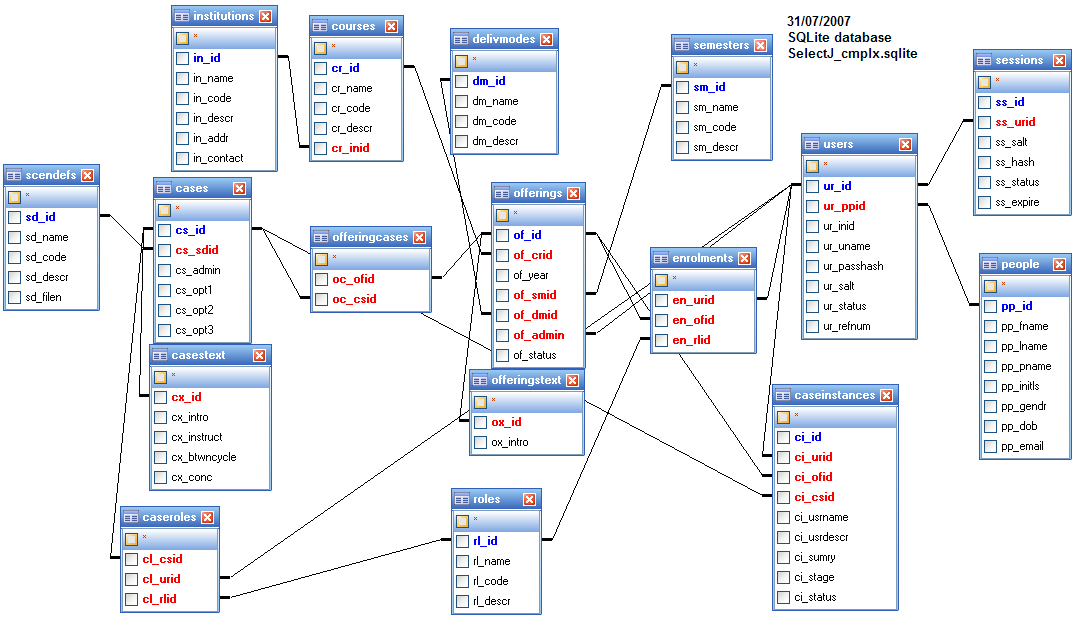
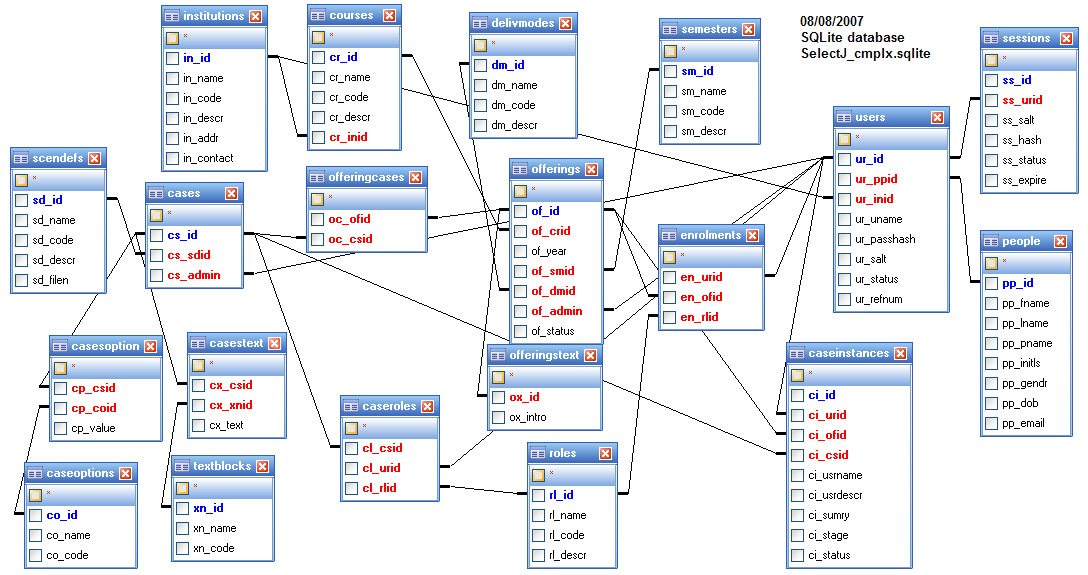
Update database structure to normalise setting case options. Added tables caseoptions and casesoption. Added HTML & CSS example for formating forms with CSS (EG_form.html,forms.css)
git-svn-id: https://free2.projectlocker.com/RikkiTikkiTavi/selectj/svn/trunk@41 9a28d70f-7318-3d49-a9e1-554383617220

diff --git a/Website/public/EG_form.html b/Website/public/EG_form.html
@@ -1,0 +1,138 @@
+<!DOCTYPE html PUBLIC "-//W3C//DTD XHTML 1.0 Transitional//EN" "http://www.w3.org/TR/xhtml1/DTD/xhtml1-transitional.dtd">
+<html lang="en" xml:lang="en" xmlns="http://www.w3.org/1999/xhtml">
+<head>
+<title>A CSS-based Form Template</title>
+<meta http-equiv="Content-Type" content="text/html; charset=iso-8859-1"/>
+<link rel="stylesheet" type="text/css" href="forms.css"/></head><body>
+
+<div id="wrapper">
+
+	<h2>A CSS-based Form Template</h2>
+
+	<div class="form-container">
+	
+	<p>More information about this template could be found in <a title="Nidahas: Forms markup and CSS - Revisited" href="http://nidahas.com/2006/12/06/forms-markup-and-css-revisited/">this blog article</a>.</p>
+
+	<div class="errors">
+		<p><em>Oops... the following errors were encountered:</em></p>
+		<ul>
+			<li>Username cannot be empty</li>
+			<li>Country cannot be empty</li>
+		</ul>
+		<p>Data has <strong>not</strong> been saved.</p>
+	</div>
+
+	<form method="post" action="#">
+	
+	<p class="legend"><strong>Note:</strong> Required fields are marked with an asterisk (<em>*</em>)</p>
+	
+	<fieldset>
+		<legend>User Details</legend>
+			<div><label class="error" for="uname">Username <em>*</em></label> <input type="text" class="error" value="" name="uname" id="uname"/></div>
+			<div><label for="email">Email Address </label> <input type="text" value="" name="email" id="email"/>
+				<p class="note">We will never sell or disclose your email address to anyone. <strong>This is an example of a note for an input field.</strong></p>
+			</div>
+	
+			<div><label for="fname">First Name <em>*</em></label> <input type="text" size="30" value="" name="fname" id="fname"/>
+			</div>
+			<div><label for="lname">Last Name </label> <input type="text" size="30" value="" name="lname" id="lname"/>
+			</div>
+	</fieldset>
+	
+	<fieldset>
+		<legend>Contact Information</legend>
+			<div><label for="address1">Address 1 <em>*</em></label> <input type="text" size="32" id="address1"/>
+			</div>
+			<div><label for="address2">Address 2</label> <input type="text" size="32" id="address2"/>
+			</div>
+			<div><label class="error" for="country">Country <em>*</em></label> <input type="text" size="12" class="error" value="" name="country" id="country"/>
+				<p class="note">Errors could be highlighted by giving an <code>error</code> class to the input field, as seen here.</p>
+			</div>
+			<div><label for="telephone">Telephone</label> <input type="text" size="3" id="telephone"/> - <input type="text" size="3"/> - <input type="text" size="4"/>
+				<p class="note">(###) - ### - ####</p>
+			</div>
+	</fieldset>
+	
+	<fieldset>
+		<legend>Submission</legend>
+			<div><label for="year">Year (YYYY) <em>*</em></label> <input type="text" maxlength="4" size="4" value="" name="year" id="year"/></div>
+	  <div><label for="date">Month (MM)</label> <input type="text" maxlength="2" size="4" value="" name="date" id="date"/></div>
+            <div><label for="Trts2Select">Traits to Select on</label>
+              <select name="Trts2Select" size="7" multiple="multiple" id="Trts2Select">
+                <option value="NLB">(NLB) Number of Lambs Born</option>
+                <!--<option value="WWT">(WWT) Weaning weight</option> -->
+                <option value="LW8">(LW8) Live weight at 8-mon</option>
+                <option value="FW12">(FW12) Fleece weight at 12-mon</option>
+                <option value="FD">(FD) Ultrasound back fat depth</option>
+                <option value="FAT">(FAT) Carcass Fat content</option>
+                <option value="LEAN">(LEAN) Carcass Lean content</option>
+              </select>
+              <p class="note">(these traits will be available in your selection lists)</p>
+            </div>
+	</fieldset>
+	
+	<fieldset>
+		<legend>Preferences</legend>
+			<div>
+				<label for="type">Type <em>*</em></label>
+				<select id="type" name="type">
+					<optgroup label="Type of Whatever">
+						<option>Corporate</option>
+						<option>Individual</option>
+					</optgroup>
+				</select>
+			</div>
+			<div class="controlset">
+				<label class="controlset">User Status <em>*</em></label>
+				<div><input type="checkbox" name="approved" id="approved" value="1"/> <label for="approved">Approved</label><br/>
+				<input type="checkbox" name="pending" id="pending" value="1"/> <label for="pending">Pending Applications</label><br/>
+				<input type="checkbox" name="actives" id="actives" value="1"/> <label for="actives">Active Service</label></div>
+			</div>			
+
+			<div class="controlset">
+				<label class="controlset">Preferred Location</label>
+				<div><input type="radio" value="1" id="radio1" name="radio1"/> <label for="radio1">Option 1</label><br/>
+				<input type="radio" value="1" id="radio2" name="radio1"/> <label for="radio2">Option 2</label><br/>
+				<input type="radio" value="1" id="radio3" name="radio1"/> <label for="radio3">Option 3</label><br/></div>
+			</div>			
+
+			<div class="controlset">
+				<label class="controlset">Something Else <em>*</em></label>
+				<div>
+					<input type="checkbox" value="1" id="check1" name="approved"/> <label for="check1">Some Option 1</label> <br/>
+					<input type="checkbox" value="1" id="check2" name="pending"/> <label for="check2">Some Option 2</label> <br/>
+					<input type="checkbox" value="1" id="check3" name="actives"/> <label for="check3">Some Option 3</label> <br/>
+				</div>
+			</div>			
+	</fieldset>
+	
+	<fieldset>
+		<legend>Profile</legend>
+			<div>
+				<label for="desc">Description <em>*</em></label>
+				<textarea id="desc" name="desc" cols="30" rows="4"></textarea>
+
+			</div>
+			<div>
+				<label for="info">Additional Info </label>
+				<textarea id="info" name="info" cols="35" rows="5"></textarea>
+			</div>
+	</fieldset>
+	
+	<div class="buttonrow">
+		<input type="submit" value="Save" class="button" />
+
+		<input type="button" value="Discard" class="button" />
+	</div>
+
+	</form>
+	
+	</div><!-- /form-container -->
+	
+	<p id="copyright">Created by <a href="http://nidahas.com/">Prabhath Sirisena</a>. This stuff is in public domain.</p>
+	
+</div><!-- /wrapper -->
+
+</body>
+</html>
+

diff --git a/Website/public/forms.css b/Website/public/forms.css
@@ -1,0 +1,121 @@
+@charset "utf-8";
+/* CSS Document */
+
+body {
+background-color:#FFFFFF;
+color:#111111;
+font-family:Arial,Helvetica,sans-serif;
+font-size:80%;
+font-style:normal;
+font-variant:normal;
+font-weight:normal;
+line-height:1.5;
+margin:0pt;
+padding:0pt;
+}
+h2 {
+background-color:#CCCCCC;
+border-bottom:2px solid #BBBBBB;
+color:#FFFFFF;
+font-family:Georgia,"Times New Roman",Times,serif;
+font-size:200%;
+font-weight:normal;
+margin:0px;
+padding:10px;
+}
+p#copyright {
+color:#999999;
+font-size:90%;
+margin:20px 10px;
+}
+div.form-container {
+background-color:#FFFFFF;
+border:1px solid #EEEEEE;
+margin:10px;
+padding:5px;
+}
+p.legend {
+margin-bottom:1em;
+}
+p.legend em {
+color:#CC0000;
+font-style:normal;
+}
+div.errors {
+background-color:#FFFFCC;
+border:1px solid #FFCC66;
+margin:0pt 0pt 10px;
+padding:5px 10px;
+}
+div.errors p {
+margin:0pt;
+}
+div.errors p em {
+color:#CC0000;
+font-style:normal;
+font-weight:bold;
+}
+div.form-container form p {
+margin:0pt;
+}
+div.form-container form p.note {
+color:#333333;
+font-size:90%;
+margin-left:140px;
+}
+div.form-container form fieldset {
+	border:1px solid #DDDDDD;
+	float:left;
+	margin: 0px 10px 10px 0pt;
+	padding:10px;
+	width:36em;
+}
+div.form-container form legend {
+color:#666666;
+font-weight:bold;
+}
+div.form-container form fieldset div {
+padding:0.25em 0pt;
+}
+div.form-container label {
+display:block;
+float:left;
+margin-right:10px;
+padding-right:10px;
+position:relative;
+text-align:right;
+width:120px;
+}
+div.form-container label.error, div.form-container span.error {
+color:#CC0000;
+}
+div.form-container label em {
+color:#CC0000;
+font-size:120%;
+font-style:normal;
+position:absolute;
+right:0pt;
+}
+div.form-container input.error {
+background-color:#FFEEFF;
+border-color:#CC0000;
+}
+div.form-container input:focus, div.form-container input.error:focus, div.form-container textarea:focus {
+background-color:#FFFFCC;
+border-color:#FFCC66;
+}
+div.form-container div.controlset label, div.form-container div.controlset input {
+display:inline;
+float:none;
+}
+div.form-container div.controlset label.controlset {
+display:block;
+float:left;
+}
+div.form-container div.controlset div {
+margin-left:140px;
+}
+div.form-container div.buttonrow {
+clear:left;
+margin-left:180px;
+}
